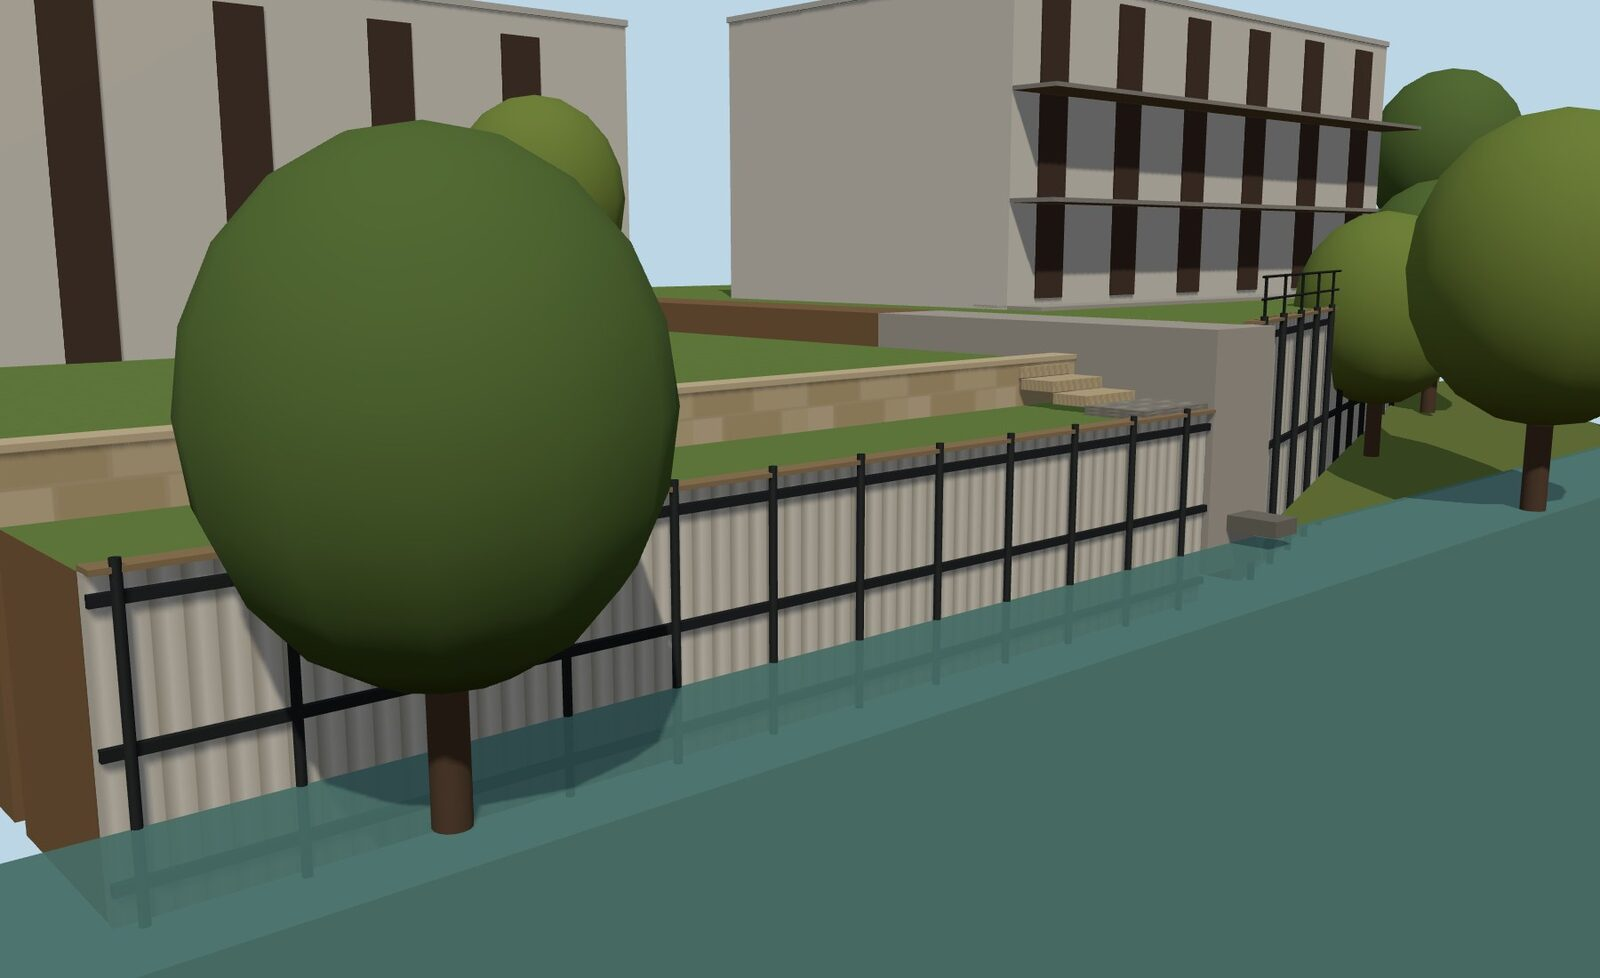
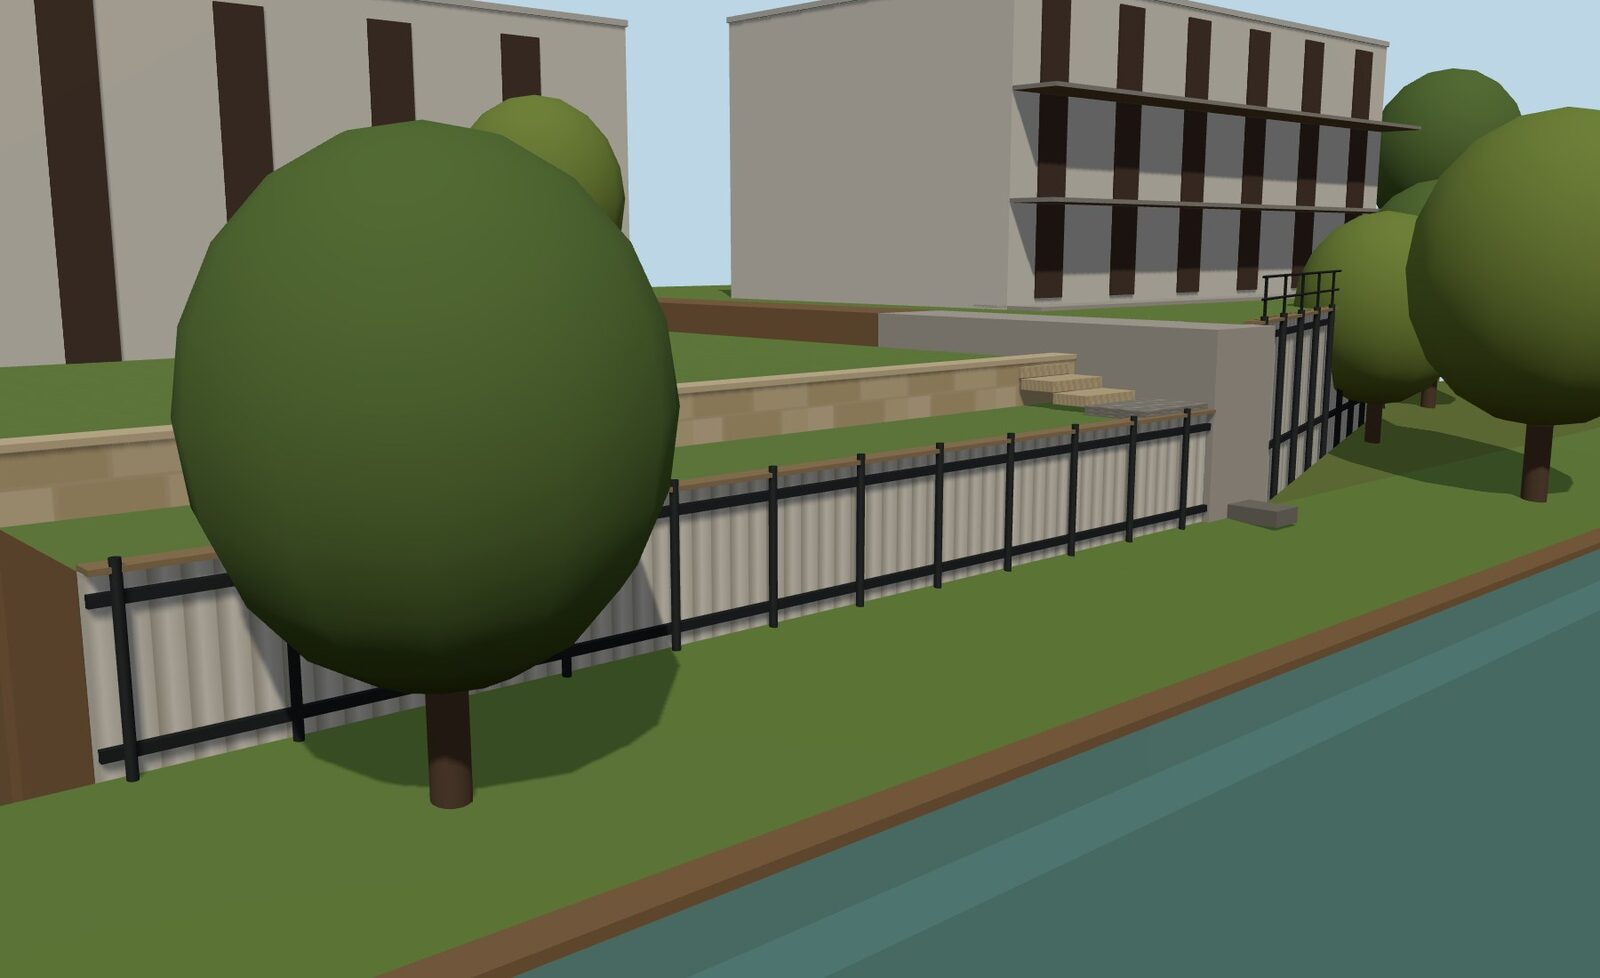
474 Seele St: walls in landscaped areas, not in the river
Claude-Session: https://claude.ai/code/session_01ACFyT5NYJkVngDarMTA6m9

Changed region(s): [[0.0, 0.3988, 1.0, 1.0]]

diff --git a/474-seele-st-r8m2qk/index.html b/474-seele-st-r8m2qk/index.html
@@ -390,7 +390,7 @@ footer b{color:var(--on-deep);font-family:var(--f-display);letter-spacing:.08em;
       <figure><img src="render-aerial.jpg" alt="Aerial rendering of both phases" loading="lazy"><figcaption>Both phases · aerial</figcaption></figure>
       <figure><img src="render-river.jpg" alt="Rendering from the river of both phases" loading="lazy"><figcaption>From the river</figcaption></figure>
     </div>
-    <p class="rend-cap">Conceptual renderings, simplified and not to scale. Buildings and trees are shown as simple shapes. The guardrail on the Phase 1 wall is Option 1 and is not in the base price.</p>
+    <p class="rend-cap">Conceptual renderings, simplified and not to scale. Buildings and trees are shown as simple shapes. All C-loc walls sit in landscaped areas, not in the river. The guardrail on the Phase 1 wall is Option 1 and is not in the base price.</p>
     <ul class="keys" id="keys"></ul>
   </div>
 </section>
